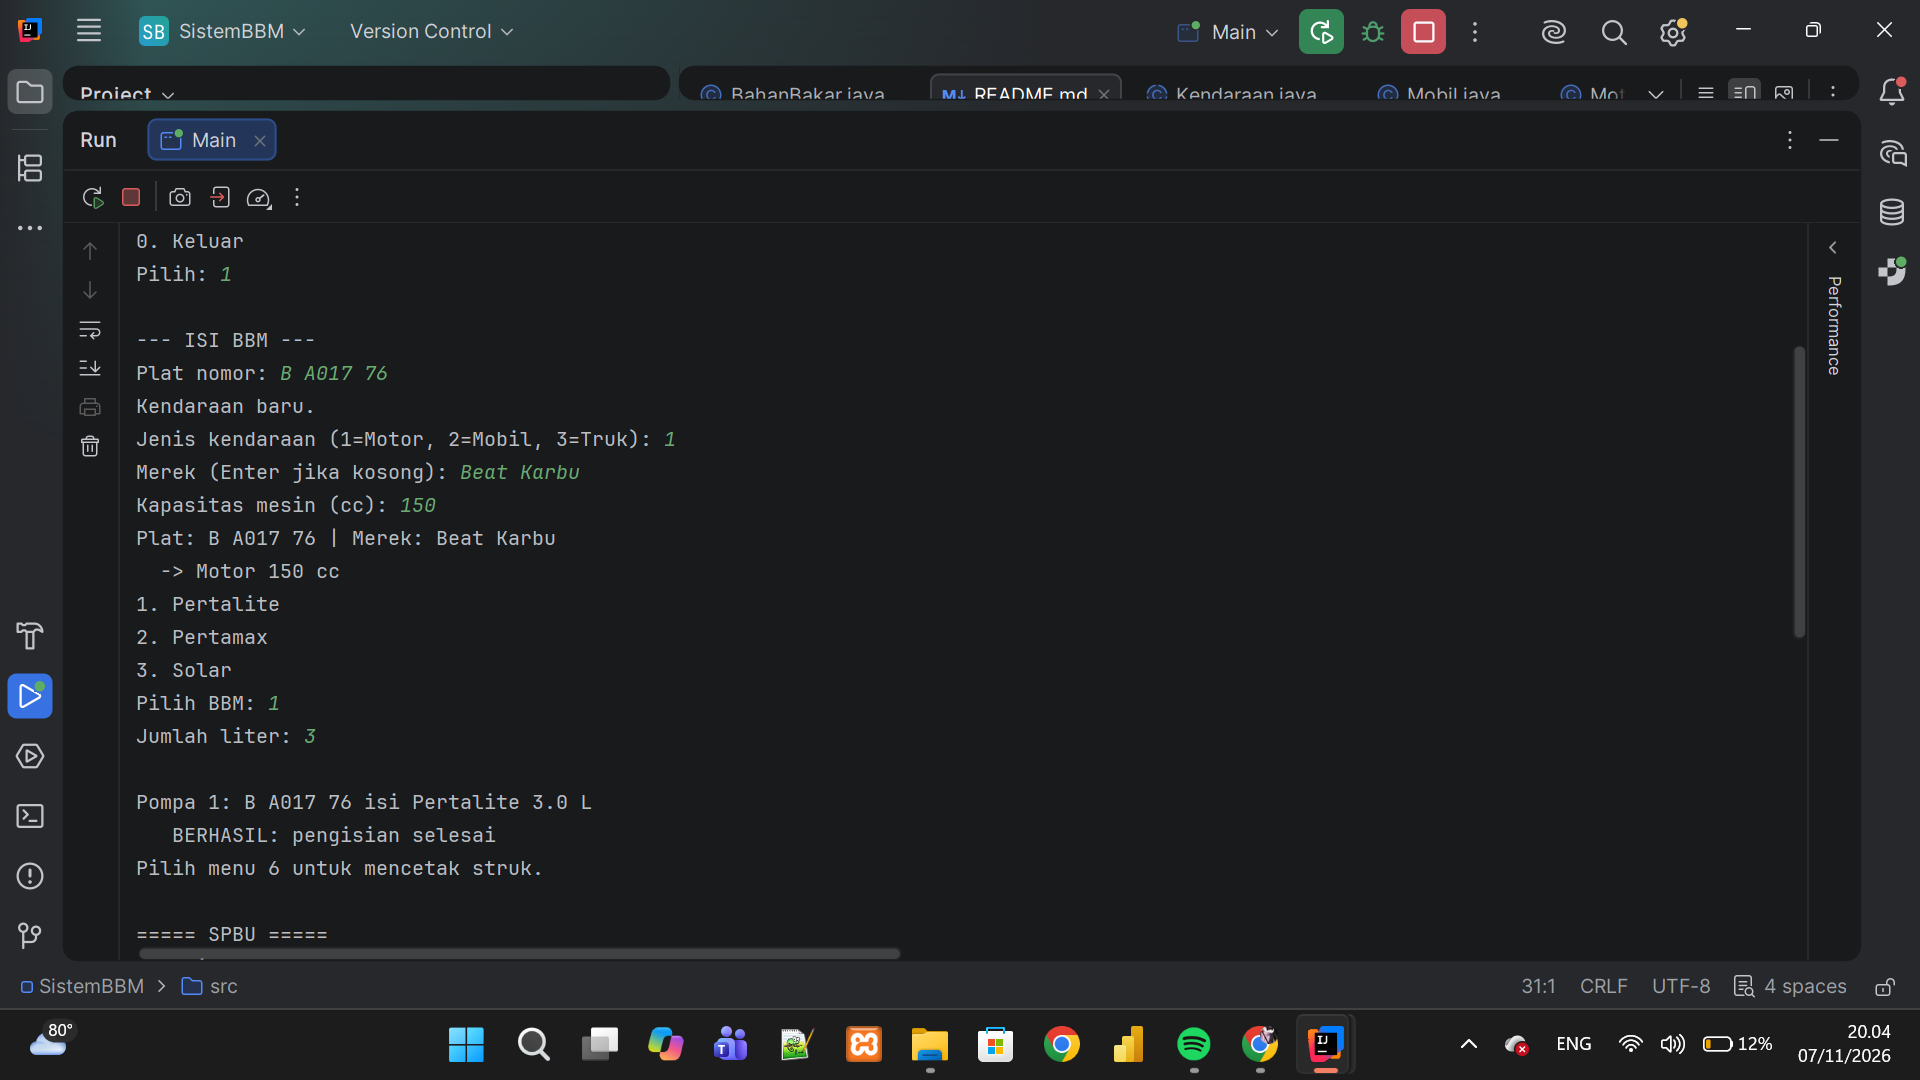
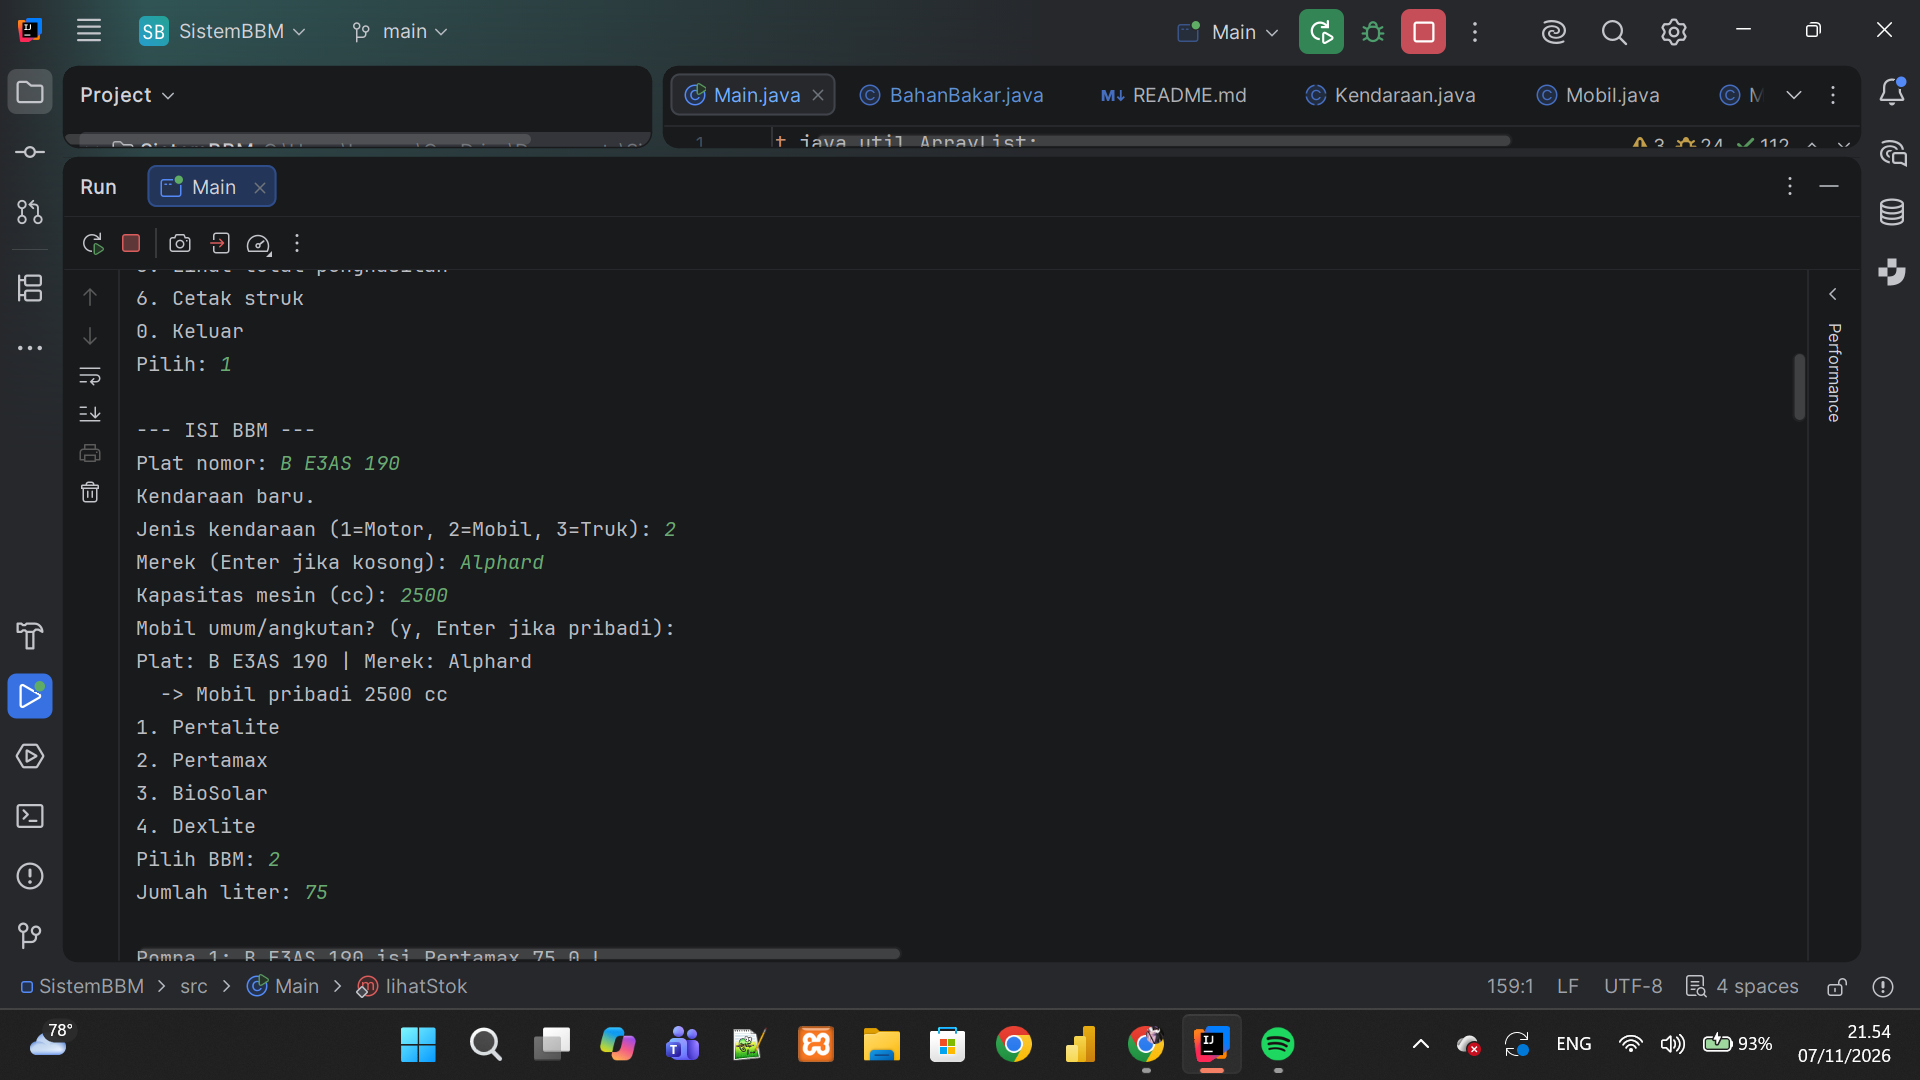
Responsi

diff --git a/src/Main.java b/src/Main.java
@@ -47,12 +47,13 @@ public class Main {
     }
 
     private static void siapkanDataBBM() {
-        BahanBakar pertamax = new BahanBakar("BBM-02", "Pertamax", BahanBakar.BENSIN, 12500, false);
+        BahanBakar pertamax = new BahanBakar("BBM-02", "Pertamax", BahanBakar.BENSIN, 16250, false);
         pertamax.setStok(300);
 
         DAFTAR_BBM.add(new BahanBakar("BBM-01", "Pertalite", BahanBakar.BENSIN, 10000, 500, true));
         DAFTAR_BBM.add(pertamax);
-        DAFTAR_BBM.add(new BahanBakar("BBM-03", "Solar", BahanBakar.DIESEL, 6800, 250, true));
+        DAFTAR_BBM.add(new BahanBakar("BBM-03", "BioSolar", BahanBakar.DIESEL, 7800, 250, true));
+        DAFTAR_BBM.add(new BahanBakar("BBM-04", "Dexlite", BahanBakar.DIESEL, 23700, 200, false));
     }
 
     private static void tampilkanMenu() {
@@ -155,8 +156,7 @@ public class Main {
         for (BahanBakar bbm : DAFTAR_BBM) {
             bbm.tampilkanInfo();
         }
-        System.out.println("Batas stok minimum: " + BahanBakar.BATAS_STOK_MINIMUM + " L");
-        System.out.println("Potongan subsidi per liter: Rp" + (long) BahanBakar.POTONGAN_SUBSIDI_PER_LITER);
+
     }
 
     private static void tambahStok() {

diff --git a/src/BahanBakar.java b/src/BahanBakar.java
@@ -29,8 +29,8 @@ public class BahanBakar {
     }
 
     public double hitungPotongan(double liter) {
-        if (bersubsidi) {
-            return liter * POTONGAN_SUBSIDI_PER_LITER;
+        if (this.bersubsidi && this.jenis.equals(DIESEL)) {
+            return POTONGAN_SUBSIDI_PER_LITER * liter;
         }
         return 0;
     }

diff --git a/README.md b/README.md
@@ -35,10 +35,10 @@ Fitur utama dalam sistem ini meliputi:
 2. **Stok BBM**
 ![Screenshot Program](StokBBM.png)
 3. **Restock BBM**
-![Screenshot Program](RestockBBM.png)
+![Screenshot Program](Restock.png)
 4. **Ubah Harga BBM**
 ![Screenshot Program](UbahHarga.png)
 5. **Total Penghasilan**
-![Screenshot Program](Total_Penghasilan.png)
+![Screenshot Program](Total.png)
 6. **Cetak Struk**
-![Screenshot Program](CetakStruk.png)
+![Screenshot Program](Struk.png)
